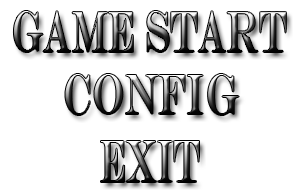
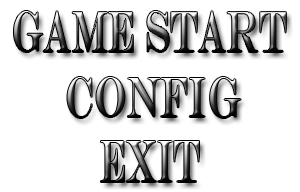
ﾀｲﾄﾙ背景の追加 ﾒﾆｭｰの白線を削除 ﾒﾆｭｰの枠を追加

Changed region(s): [[0.21, 0.375, 0.81, 0.6562]]

diff --git a/Tohohu/TitleScene.h b/Tohohu/TitleScene.h
@@ -3,6 +3,9 @@
 #define MENU_IMAGE_SIZE_X 300
 #define MENU_IMAGE_SIZE_Y 64
 
+#define MENUWAKU_SIZE_X 350
+#define MENUWAKU_SIZE_Y 75
+
 enum MENU_ID
 {
 	GAMESTART_ID,
